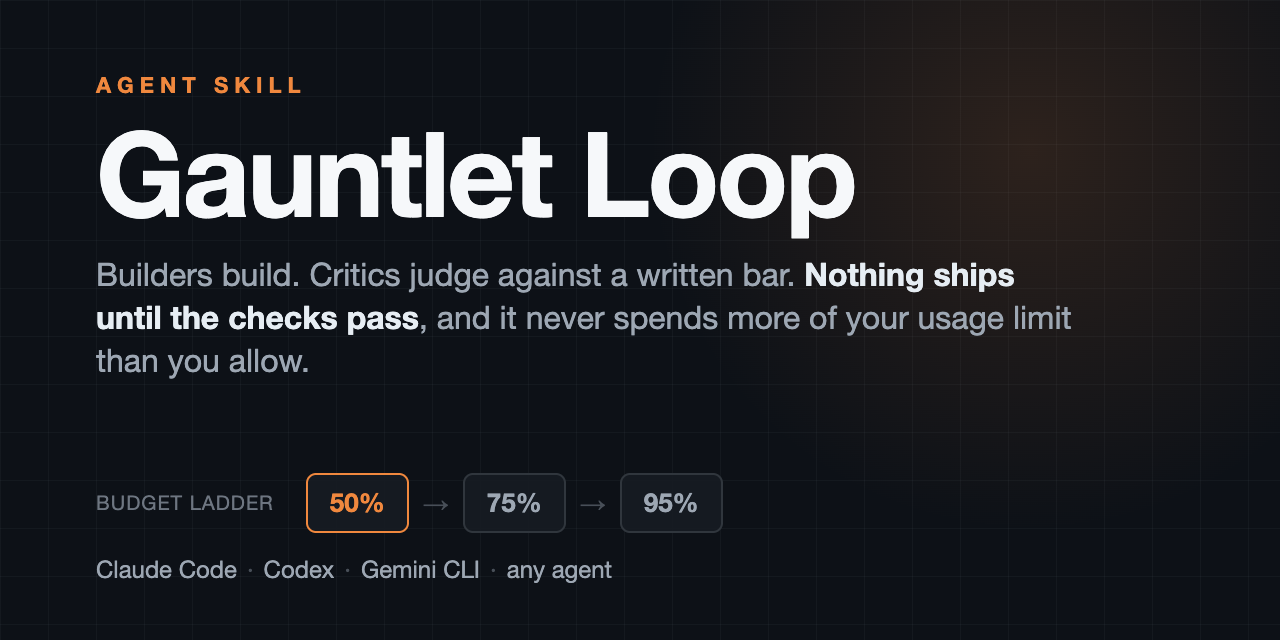
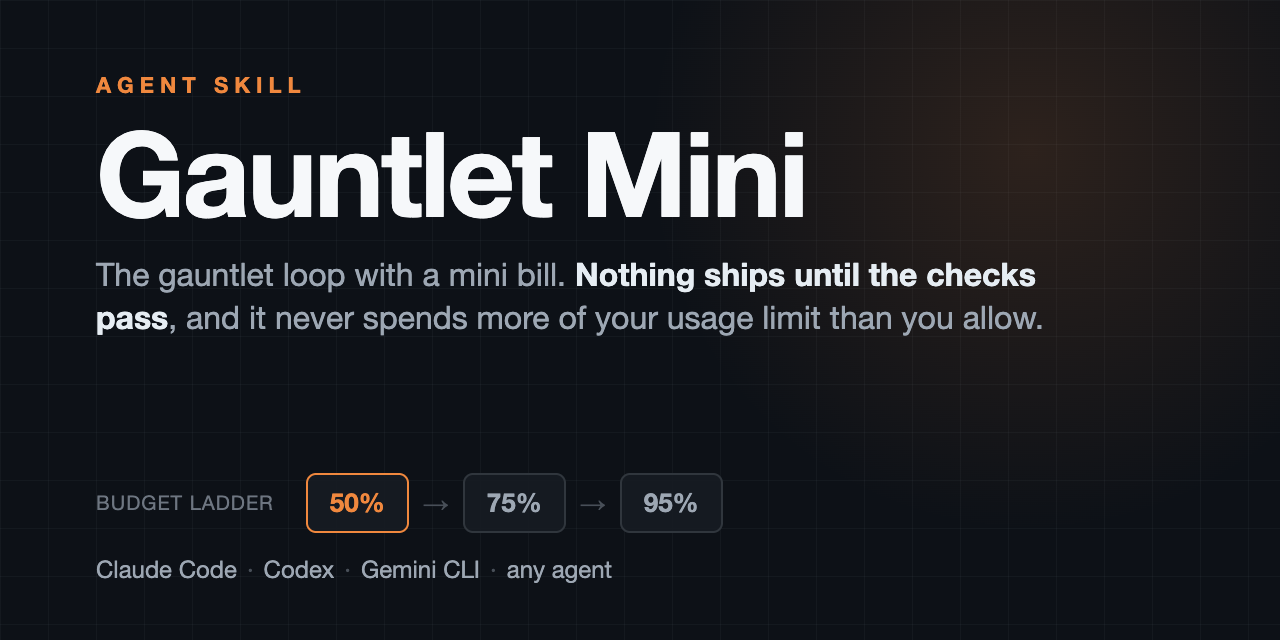
Rename to Gauntlet Mini: same technique, mini bill

Changed region(s): [[0.0625, 0.4062, 0.8438, 0.5938], [0.4688, 0.1875, 0.6875, 0.375]]

diff --git a/README.md b/README.md
@@ -1,10 +1,10 @@
-# Gauntlet Loop
+# Gauntlet Mini
 
 [![License: MIT](https://img.shields.io/badge/license-MIT-green.svg)](LICENSE)
 [![Works with](https://img.shields.io/badge/works%20with-Claude%20Code%20·%20Codex%20·%20Gemini%20CLI-blue.svg)](#install)
-[![GitHub stars](https://img.shields.io/github/stars/cyog941/gauntlet-loop?style=social)](https://github.com/cyog941/gauntlet-loop/stargazers)
+[![GitHub stars](https://img.shields.io/github/stars/cyog941/gauntlet-mini?style=social)](https://github.com/cyog941/gauntlet-mini/stargazers)
 
-The gauntlet loop that won't torch your usage limits. Workers build, critics judge the work against a written quality bar, and the loop runs inside a budget you pick before anything starts: 50% of your usage window, then 75%, then 95%, each step only with your consent.
+The gauntlet loop with a mini bill. Workers build, critics judge the work against a written quality bar, and the loop runs inside a budget you pick before anything starts: 50% of your usage window, then 75%, then 95%, each step only with your consent. Mini refers to what it spends, never to what it builds.
 
 The loop's famous demos are also famous for their bills. Viral runs of the original prompt burned $1,200 to $1,700 in tokens on single builds, and the most upvoted community verdict on the whole trend is blunt: "guaranteed token burn with fingers-crossed results." This version keeps the quality machinery and removes the open-ended spend.
 
@@ -70,7 +70,7 @@ The budget is a share of your remaining usage window (most plans meter usage in 
 
 Tell the agent up front, in the same message as your request:
 
-> `/gauntlet-loop build me a landing page for my product, use 50% of my session/token limit as a hard stop to complete this build`
+> `/gauntlet-mini build me a landing page for my product, use 50% of my session/token limit as a hard stop to complete this build`
 
 Or say nothing and let it ask. Before spinning anything up, it offers three tiers:
 
@@ -91,44 +91,44 @@ Pick your agent. Each one gets the same technique; only the packaging changes.
 One command via [skills.sh](https://skills.sh):
 
 ```bash
-npx skills add cyog941/gauntlet-loop
+npx skills add cyog941/gauntlet-mini
 ```
 
 Or clone it straight into the skills folder:
 
 ```bash
-git clone https://github.com/cyog941/gauntlet-loop.git ~/.claude/skills/gauntlet-loop
+git clone https://github.com/cyog941/gauntlet-mini.git ~/.claude/skills/gauntlet-mini
 ```
 
-Open a new session and it's available as `/gauntlet-loop`. This also works for any other agent that reads the `SKILL.md` agent-skill format: point the clone at that agent's skills folder instead.
+Open a new session and it's available as `/gauntlet-mini`. This also works for any other agent that reads the `SKILL.md` agent-skill format: point the clone at that agent's skills folder instead.
 
 ### Add to Codex
 
-Codex has no skill loader, but any markdown file in `~/.codex/prompts/` becomes a slash command. A self-contained port lives in [`codex/gauntlet-loop.md`](codex/gauntlet-loop.md):
+Codex has no skill loader, but any markdown file in `~/.codex/prompts/` becomes a slash command. A self-contained port lives in [`codex/gauntlet-mini.md`](codex/gauntlet-mini.md):
 
 ```bash
 mkdir -p ~/.codex/prompts
-curl -fsSL https://raw.githubusercontent.com/cyog941/gauntlet-loop/main/codex/gauntlet-loop.md \
-  -o ~/.codex/prompts/gauntlet-loop.md
+curl -fsSL https://raw.githubusercontent.com/cyog941/gauntlet-mini/main/codex/gauntlet-mini.md \
+  -o ~/.codex/prompts/gauntlet-mini.md
 ```
 
-Restart Codex and run `/gauntlet-loop <your request>`. One difference: with no parallel subagent tool, workers run as sequential ownership-bounded passes by default, or as real workers via `codex exec -m <model>` when shell access allows.
+Restart Codex and run `/gauntlet-mini <your request>`. One difference: with no parallel subagent tool, workers run as sequential ownership-bounded passes by default, or as real workers via `codex exec -m <model>` when shell access allows.
 
 ### Add to Gemini CLI
 
-Gemini CLI loads custom commands from TOML files in `~/.gemini/commands/`. A port lives in [`gemini/gauntlet-loop.toml`](gemini/gauntlet-loop.toml):
+Gemini CLI loads custom commands from TOML files in `~/.gemini/commands/`. A port lives in [`gemini/gauntlet-mini.toml`](gemini/gauntlet-mini.toml):
 
 ```bash
 mkdir -p ~/.gemini/commands
-curl -fsSL https://raw.githubusercontent.com/cyog941/gauntlet-loop/main/gemini/gauntlet-loop.toml \
-  -o ~/.gemini/commands/gauntlet-loop.toml
+curl -fsSL https://raw.githubusercontent.com/cyog941/gauntlet-mini/main/gemini/gauntlet-mini.toml \
+  -o ~/.gemini/commands/gauntlet-mini.toml
 ```
 
-Restart Gemini CLI and run `/gauntlet-loop <your request>`. Same sequential-pass adaptation as Codex.
+Restart Gemini CLI and run `/gauntlet-mini <your request>`. Same sequential-pass adaptation as Codex.
 
 ### Add to Hermes or any other agent
 
-[`codex/gauntlet-loop.md`](codex/gauntlet-loop.md) doubles as the portable, self-contained version. Drop it wherever your agent takes custom prompts or instructions: its prompt or command folder if it has one, otherwise its `AGENTS.md`-style instruction file. Adjust the budget wording to whatever usage limits that agent has. The technique itself ports anywhere an agent can run bounded sub-tasks.
+[`codex/gauntlet-mini.md`](codex/gauntlet-mini.md) doubles as the portable, self-contained version. Drop it wherever your agent takes custom prompts or instructions: its prompt or command folder if it has one, otherwise its `AGENTS.md`-style instruction file. Adjust the budget wording to whatever usage limits that agent has. The technique itself ports anywhere an agent can run bounded sub-tasks.
 
 ## Good fits and bad fits
 
@@ -141,12 +141,12 @@ Two habits make it work better. Give it your raw materials: briefs, examples, li
 ## What's in the repo
 
 ```
-gauntlet-loop/
+gauntlet-mini/
 ├── SKILL.md                        # the agent skill (standard SKILL.md format)
 ├── codex/
-│   └── gauntlet-loop.md            # self-contained portable port (Codex custom prompt)
+│   └── gauntlet-mini.md            # self-contained portable port (Codex custom prompt)
 ├── gemini/
-│   └── gauntlet-loop.toml          # Gemini CLI custom-command port
+│   └── gauntlet-mini.toml          # Gemini CLI custom-command port
 └── references/
     ├── evaluator-patterns.md       # what counts as evidence, by discipline
     └── examples.md                 # worked examples of good and bad gauntlet fits

diff --git a/SKILL.md b/SKILL.md
@@ -1,9 +1,9 @@
 ---
-name: gauntlet-loop
+name: gauntlet-mini
 description: Build and test with the gauntlet-loop technique — convert a substantial prompt into a bounded worker/evaluator fan-out, then set it up and execute it end-to-end at the highest quality the session budget allows, tiering models per role (top-tier director/verifier where judgment decides the outcome; cheaper workers elsewhere). Use for requests mentioning a gauntlet/guantlet loop, worker-critic loops, fan-out subagents, multi-agent orchestration, parallel workers, iterative refinement, or building a complex deliverable through delegated work with evaluators and revision loops. Produce a prompt-only conversion when the user explicitly asks for just the prompt or spec.
 ---
 
-# Gauntlet Loop
+# Gauntlet Mini
 
 Turn a "fan out agents until the result is amazing" request into a build-and-test machine: workers with clear ownership, evaluators with real evidence, and revision loops that run until the quality checks pass — bounded so the loop converges instead of wandering.
 

diff --git a/codex/gauntlet-mini.md b/codex/gauntlet-mini.md
@@ -3,7 +3,7 @@ description: Build and test with the gauntlet-loop technique — bounded worker/
 argument-hint: [what to build, and optionally a usage budget like "use 50% of my limit"]
 ---
 
-# Gauntlet Loop
+# Gauntlet Mini
 
 Apply the gauntlet-loop technique to the request that follows (or, if none follows, to the task already in progress): turn one substantial build request into a bounded set of worker passes with clear ownership, evaluators with real evidence, and revision loops that run until the quality checks pass — bounded so the loop converges instead of wandering.
 
